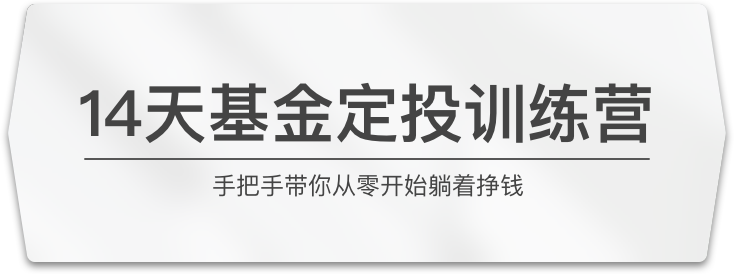
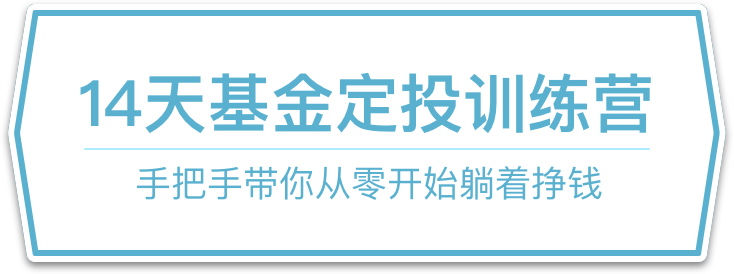
报名页面 更换图片

Changed region(s): [[0.0899, 0.2628, 0.8992, 0.7299], [0.0, 0.0292, 0.9891, 0.9343]]

diff --git a/assetsFund/component/PayPage.js b/assetsFund/component/PayPage.js
@@ -291,7 +291,7 @@ var PayPage = React.createClass({
     },
 
     onWantJoinTap () {
-        window.dialogAlertComp.show('告诉你个小秘','请好友分享给你后，你可以无视截止时间的限制，想报名就报名~','快去试试吧',()=>{},()=>{},false);
+        window.dialogAlertComp.show('告诉你个小秘密','请好友分享给你后，你可以无视截止时间的限制，想报名就报名~','快去试试吧',()=>{},()=>{},false);
     },
 
     /**
@@ -401,7 +401,7 @@ var PayPage = React.createClass({
         return (
             <div className="pay_page">
                 <div className="fund-join-page">
-                    <img src="./assetsFund/image/fundJoin/join-bg.jpg " alt="" className="fund-join-bg"/>
+                    <img src="./assetsFund/image/fundJoin/join-bg.jpg" alt="" className="fund-join-bg"/>
                     <img src="./assetsFund/image/fundJoin/join-title.png" alt="" className="fund-join-title"/>
                     <img src="./assetsFund/image/fundJoin/join-content.png" alt="" className="fund-join-content"/>
                     {
